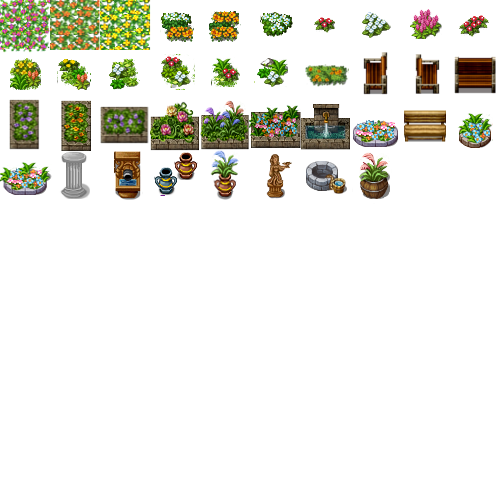
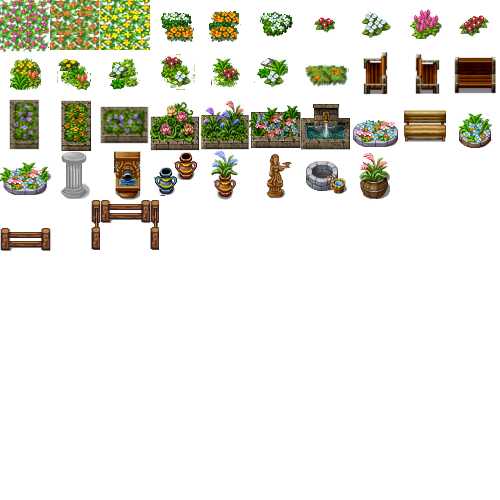
Added fence graphics and code

Changed region(s): [[0.18, 0.39, 0.33, 0.51], [0.0, 0.45, 0.12, 0.51]]

diff --git a/Divine Right/Objects/Graphics/SpriteManager.cs b/Divine Right/Objects/Graphics/SpriteManager.cs
@@ -276,6 +276,11 @@ namespace DRObjects.Graphics
 
             localSprites[(int)LocalSpriteName.TABLE_FOR_1] = new SpriteData(HOUSEITEM, new Rectangle(50, 600, 50, 50));
 
+            localSprites[(int)LocalSpriteName.FENCE_BOTTOM] = new SpriteData(OUTDOORS, new Rectangle(0, 200, 50, 50));
+            localSprites[(int)LocalSpriteName.FENCE_RIGHT] = new SpriteData(OUTDOORS, new Rectangle(50, 200, 50, 50));
+            localSprites[(int)LocalSpriteName.FENCE_TOP] = new SpriteData(OUTDOORS, new Rectangle(100, 200, 50, 50));
+            localSprites[(int)LocalSpriteName.FENCE_LEFT] = new SpriteData(OUTDOORS, new Rectangle(150, 200, 50, 50));
+
             AddLocalSprite(LocalSpriteName.WATER_TROUGH, HOUSEITEM, 2, 10);
             AddLocalSprite(LocalSpriteName.FOOD_TROUGH, HOUSEITEM, 3, 10);
             AddLocalSprite(LocalSpriteName.HAY_BALE, HOUSEITEM, 4, 10);

diff --git a/Divine Right/Objects/Graphics/LocalSpriteName.cs b/Divine Right/Objects/Graphics/LocalSpriteName.cs
@@ -619,6 +619,10 @@ namespace DRObjects.Graphics
         HORSE1,
         HORSE3,
         HORSE2,
+        FENCE_LEFT,
+        FENCE_TOP,
+        FENCE_RIGHT,
+        FENCE_BOTTOM,
 
     }
 }
